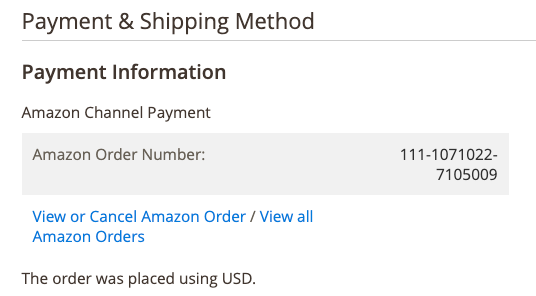
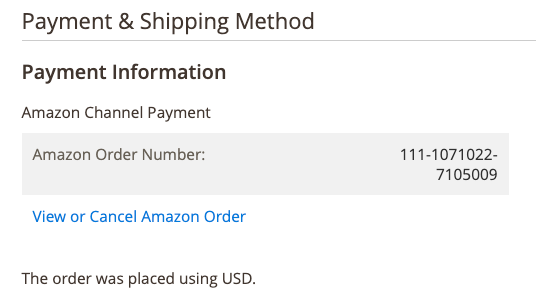
updates for cancel order
includes new topic and updated links.

Changed region(s): [[0.0597, 0.7601, 0.2687, 0.8209], [0.4776, 0.6993, 0.597, 0.7601]]

diff --git a/src/sales-channels/asc/common-order-processing.md b/src/sales-channels/asc/common-order-processing.md
@@ -8,7 +8,7 @@ When corresponding Magento orders are created for Amazon orders, the Amazon orde
 
 The Magento order number does not show with the _Recent Orders_ information. The Magento order number only shows when you click the Order Number on the store dashboard and open the order in [Magento order processing]({% link sales/order-processing.md %}). When viewing the Magento order, the Amazon Order number appears in the _Payment & Shipping Method_ section, along with options to _View or Cancel Amazon Order_ and _View all Amazon Orders_, depending on the order's shipping status.
 
-See [cancel an unshipped order]({% link sales-channels/asc/amazon-order-details.md %}#cancel-an-order-in-unshipped-status).
+See [cancel an unshipped order]({% link sales-channels/asc/cancel-unshipped-order.md %}).
 
 ![]({% link sales-channels/asc/assets/amazon-order-number-payment-info.png %}){: .zoom}
 _Amazon Order info in the Magento Order_
@@ -29,8 +29,9 @@ Common Magento [order processing]({% link sales/order-processing.md %}) tasks in
 - [Issuing a credit/refund]({% link sales/credit-memo-create.md %})
 - [Fulfilling/shipping an order]({% link sales/shipments-create.md %})
 - [Create an invoice]({% link sales/invoice-create.md %})
+- [Cancel and unshipped order]({% link sales-channels/cancel-unshipped-order.md %})
 
 {:.bs-callout-info}
-If an order is in `Unshipped` status, you can cancel an Amazon order on the [Amazon Order Details]({% link sales-channels/asc/amazon-order-details.md %}) page. If an order has been shipped, it cannot be canceled.
+If an order is in `Unshipped` status, you can [cancel an Amazon order]({% link sales-channels/cancel-unshipped-order.md %}) on the [Amazon Order Details]({% link sales-channels/asc/amazon-order-details.md %}) page. If an order has been shipped, it cannot be canceled.
 
 See [Magento Order Management]({% link sales/order-management.md %}).

diff --git a/src/sales-channels/asc/amazon-order-details.md b/src/sales-channels/asc/amazon-order-details.md
@@ -15,36 +15,9 @@ _Amazon Order Details_
 
 1. Scroll down to the _Payment & Shipping Information_ section.
 
-1. Click an option under _Amazon Order Number_.
+1. Under _Amazon Order Number_, click **View or Cancel Amazon Order**.
 
-    - **View or Cancel Amazon Order** - Opens the _Amazon Order Details_ page for the order (_Order and Shipping Details_, _Order Items_, and _Tracking_ tabs).
-    - **View All Amazon Orders**
-
-## Cancel an order in `Unshipped` status
-
-1. Click **View Store** on the store card.
-
-1. In the _Recent Orders_ section, click an order number.
-
-    The order opens in the [Magento Order Process]({% link sales/order-processing.md %})
-
-1. Scroll down to the _Payment & Shipping Information_ section.
-
-1. Click **View or Cancel Amazon Order**.
-
-    The _Amazon Order Details_ page appears.
-
-1. Click **Cancel Order** in the header bar.
-
-    **Cancel Order** only appears for orders in `Unshipped` status.
-
-1. For **Reason For Cancellation**, choose an option.
-
-    The cancellation notification will be sent to your Amazon Seller Central account, and the customer associated with the order will be notified. The status of the corresponding Magento order will change to `Complete`.
-
-1. Click **Cancel Order** in the header bar. The order is canceled, and the status is updated to `Canceled`.
-
-    Orders can only be canceled if they are in an `Unshipped` status. If the order is pending or partially shipped (unshipped), the order can only be canceled through your Amazon Seller Central account.
+    The _Amazon Order Details_ page opens.
 
 ### Order and Shipping Details tab
 

diff --git a/src/sales-channels/asc/cancel-unshipped-order.md b/src/sales-channels/asc/cancel-unshipped-order.md
@@ -1,0 +1,29 @@
+---
+title: Cancel an Unshipped Order
+---
+
+Orders can only be canceled if they are in an `Unshipped` status. If the order is pending or partially shipped (unshipped), the order can only be canceled through your Amazon Seller Central account.
+
+## Cancel an order in `Unshipped` status
+
+1. Click **View Store** on the store card.
+
+1. In the _Recent Orders_ section, click an order number.
+
+    The order opens in the [Magento Order Process]({% link sales/order-processing.md %})
+
+1. Scroll down to the _Payment & Shipping Information_ section.
+
+1. Click **View or Cancel Amazon Order**.
+
+    The _Amazon Order Details_ page appears.
+
+1. Click **Cancel Order** in the header bar.
+
+    **Cancel Order** only appears for orders in `Unshipped` status.
+
+1. For **Reason For Cancellation**, choose an option.
+
+    The cancellation notification will be sent to your Amazon Seller Central account, and the customer associated with the order will be notified. The status of the corresponding Magento order will change to `Complete`.
+
+1. Click **Cancel Order** in the header bar. The order is canceled, and the status is updated to `Canceled`.
